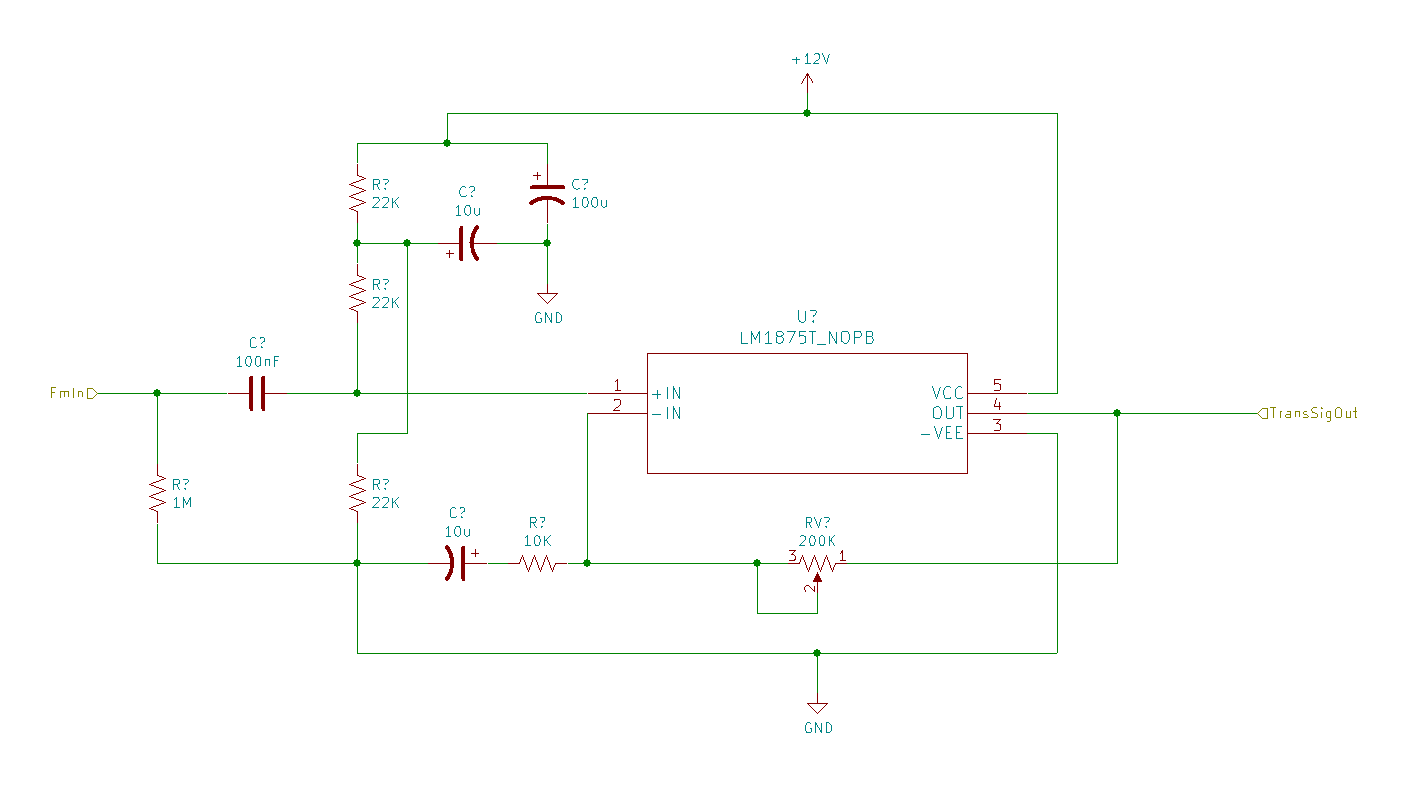
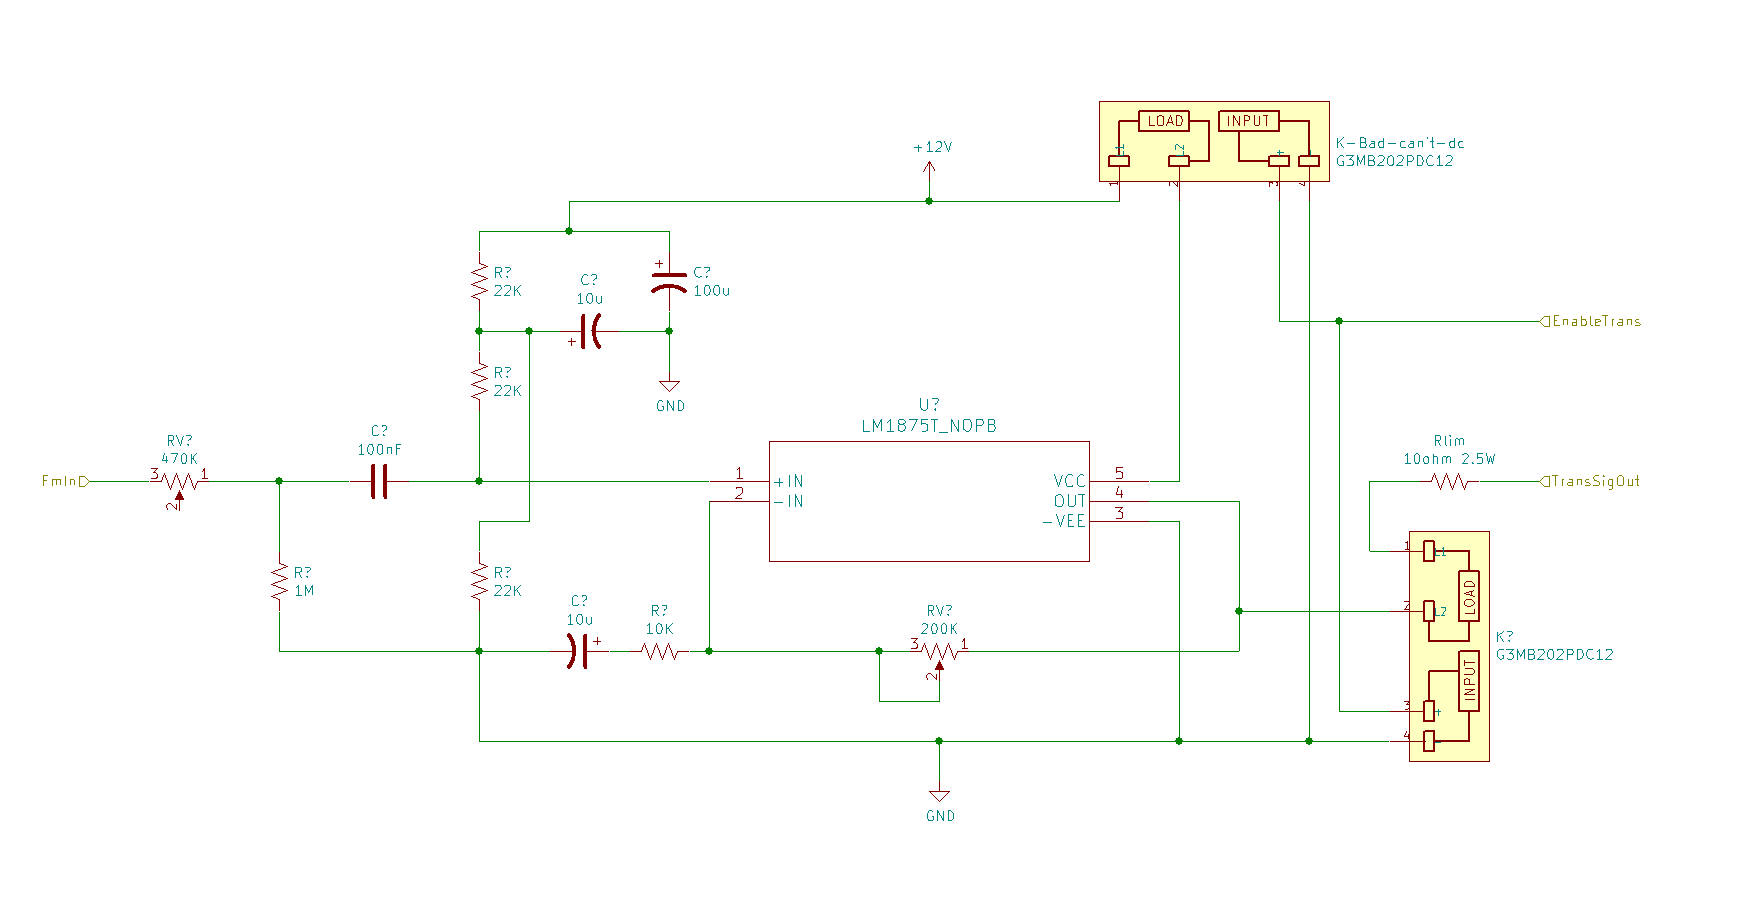
Updates to include new transmit amplifier design
Using LM386N-4 instead of LM1875

diff --git a/SimpleArduinoVlfRadio/readme.md b/SimpleArduinoVlfRadio/readme.md
@@ -53,9 +53,15 @@ Next, the square wave is fed into a low pass switch capacitor filter with a cuto
 
 ## Transmitter Amplification
 
-The final stage in the transmitter is to amplify the sine wave and output it to an antenna. Since this radio is designed to operate near 5Khz we can simply use a low-distortion audio amplifier. For this circuit I am using the common LM1875 audio amplifier. This circuit is designed to operate at up to 2W of output power as adjusted using the potentiometer. 
+The final stage in the transmitter is to amplify the sine wave and output it to an antenna. Since this radio is designed to operate near 5Khz we can simply use a low-distortion audio amplifier. For this circuit I originally planned on using the common LM1875 audio amplifier. This circuit is designed to operate at up to 2W of output power as adjusted using the potentiometer. 
 
 ![Transmit Amplifier](transmit_amplifier.png)
+
+However, this amplifier is a high power unit and with this amp the circuit pulls 250mA when outputting at 200mW average power. This is very inefficient. My batteries are 2000mAH and this will only transmit for approximately 8 hours (estimated). Additionally, I didn't realized the G3MB digital relays I had were triac devices and latch open when running DC power through them. Therefore it is necessary to change the SSRs used.
+
+Therefore it was decided to try using the LM386N-4. Note that the -4 is important as this is the 1W version of the amplifier. The LM386N-4 is a much simplier circuit and does not come with a way to attach a heat sink. 
+
+![Transmit Amplifier V2](transmit_amplifier_v2.png)
 
 ## Transmitter Overview
 
